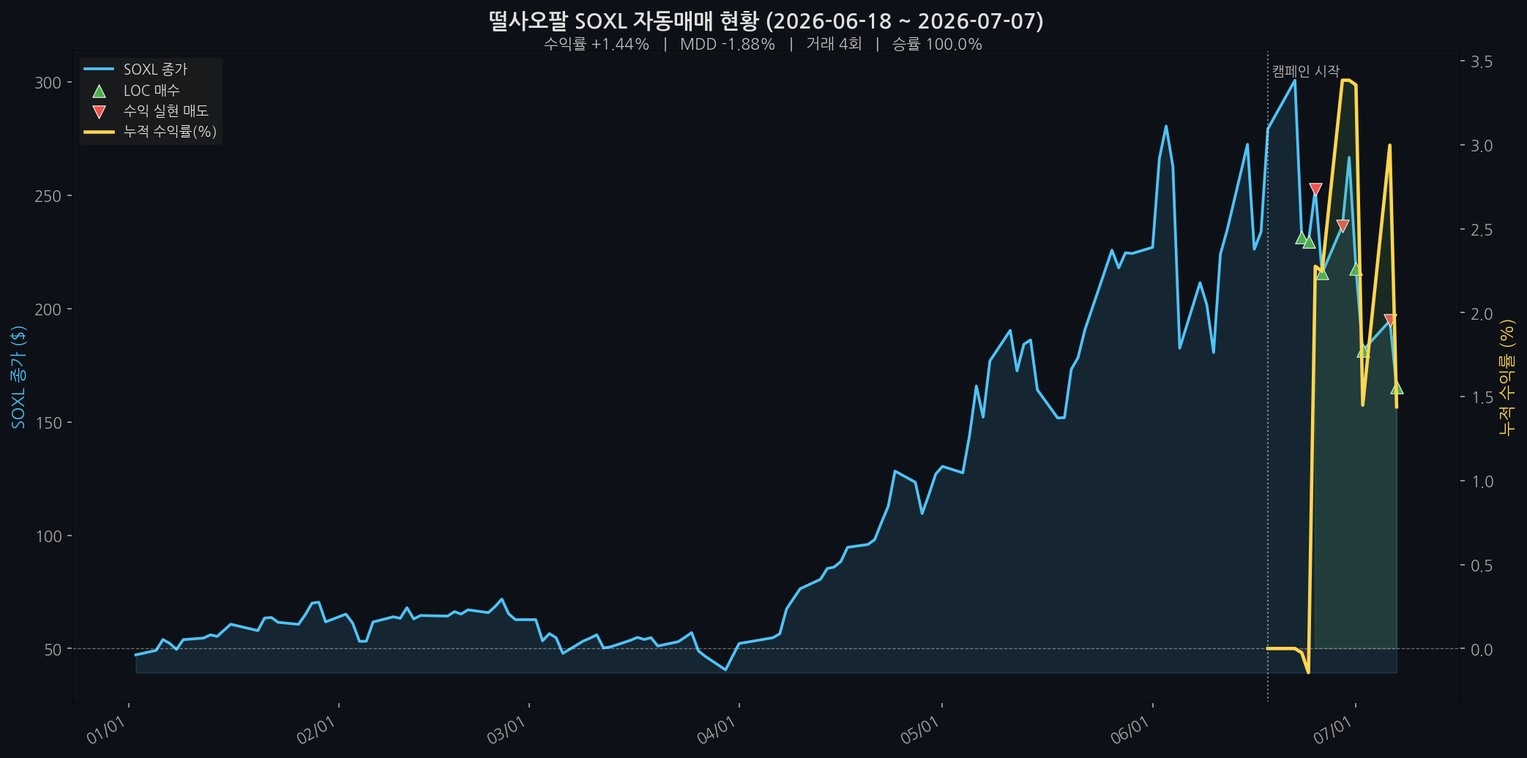
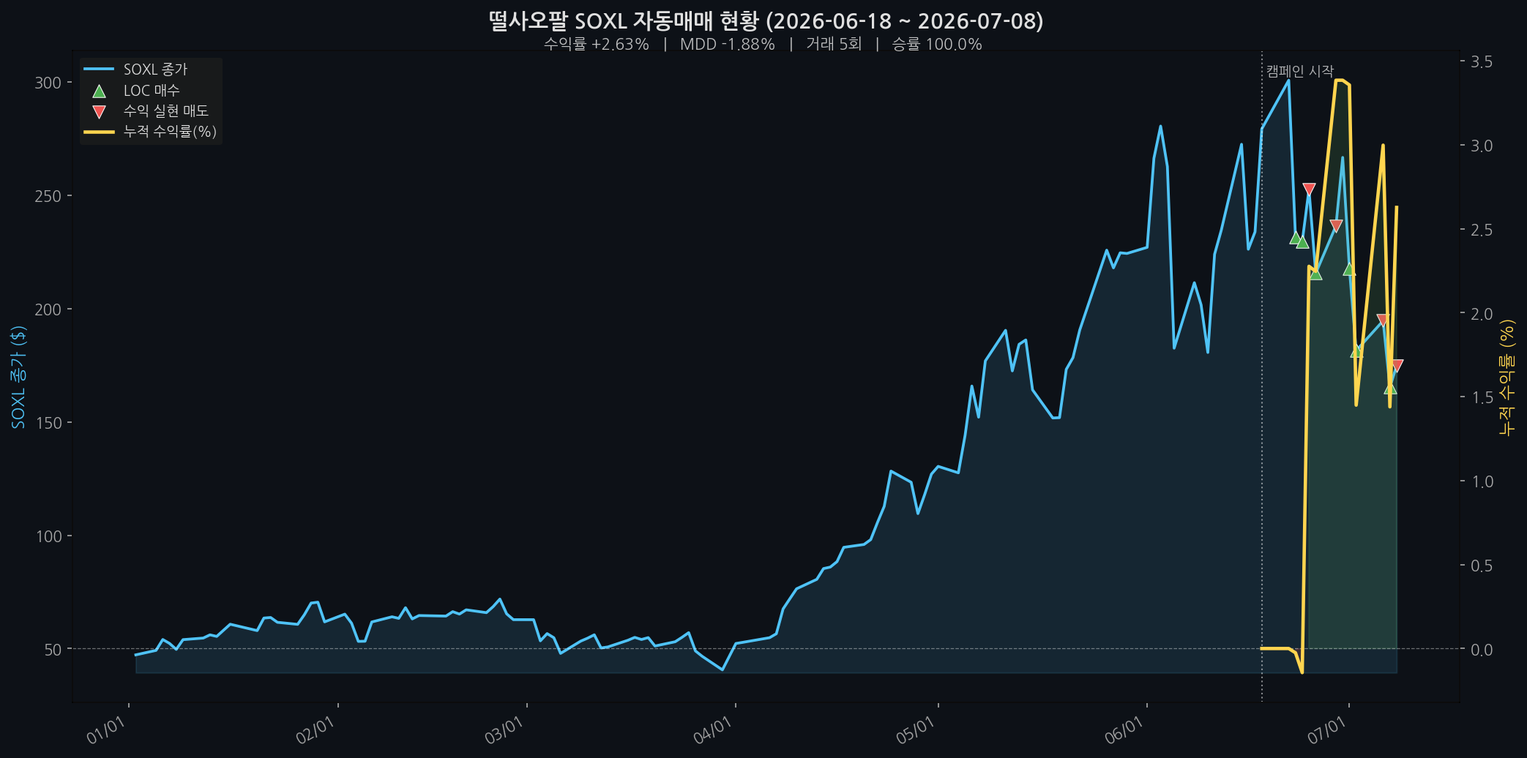
📊 Update charts 2026-07-09

diff --git a/docs/index.html b/docs/index.html
@@ -1,7 +1,7 @@
 <html>
 <head><meta charset="utf-8" /></head>
 <body>
-    <div style="height:920px; width:100%;">                        <script>window.PlotlyConfig = {MathJaxConfig: 'local'};</script>
-        <script charset="utf-8" src="https://cdn.plot.ly/plotly-3.6.0.min.js" integrity="sha256-QaOVwtVY0T02VaHrr6pnoHLCwayMJp4O5n4YyaE3rJk=" crossorigin="anonymous"></script>                <div id="a0e66dda-5eaf-4e52-b503-6f172e8f9b49" class="plotly-graph-div" style="height:100%; width:100%;"></div>            <script>                window.PLOTLYENV=window.PLOTLYENV || {};                                if (document.getElementById("a0e66dda-5eaf-4e52-b503-6f172e8f9b49")) {                    Plotly.newPlot(                        "a0e66dda-5eaf-4e52-b503-6f172e8f9b49",                        [{"hovertemplate":"%{x|%Y-%m-%d}\u003cbr\u003e\uc885\uac00 $%{y:.2f}\u003cextra\u003e\u003c\u002fextra\u003e","line":{"color":"#4FC3F7","width":1.6},"mode":"lines","name":"SOXL \uc885\uac00","x":["2026-06-18","2026-06-22","2026-06-23","2026-06-24","2026-06-25","2026-06-26","2026-06-29","2026-06-30","2026-07-01","2026-07-02","2026-07-06","2026-07-07"],"y":[279.29,300.77,231.42,229.57,252.61,215.6,236.52,266.71,217.55,181.47,194.65,165.28],"type":"scatter","xaxis":"x","yaxis":"y"},{"hovertemplate":"%{x|%Y-%m-%d}\u003cbr\u003e%{text}\u003cextra\u003e\u003c\u002fextra\u003e","marker":{"color":"#ff6b6b","line":{"color":"white","width":1.2},"size":11,"symbol":"triangle-up"},"mode":"markers","name":"\ub9e4\uc218 \uccb4\uacb0","text":["\ub9e4\uc218 LOC 11\uc8fc\u003cbr\u003e\uc9c0\uc815\uac00 $300.77 \u2192 \uccb4\uacb0\uac00 $231.42","\ub9e4\uc218 LOC 16\uc8fc\u003cbr\u003e\uc9c0\uc815\uac00 $231.42 \u2192 \uccb4\uacb0\uac00 $229.57","\ub9e4\uc218 LOC 14\uc8fc\u003cbr\u003e\uc9c0\uc815\uac00 $252.61 \u2192 \uccb4\uacb0\uac00 $215.60","\ub9e4\uc218 LOC 17\uc8fc\u003cbr\u003e\uc9c0\uc815\uac00 $217.55 \u2192 \uccb4\uacb0\uac00 $181.47","\ub9e4\uc218 LOC 19\uc8fc\u003cbr\u003e\uc9c0\uc815\uac00 $194.65 \u2192 \uccb4\uacb0\uac00 $165.28"],"x":["2026-06-23","2026-06-24","2026-06-26","2026-07-02","2026-07-07"],"y":[231.42,229.57,215.6,181.47,165.28],"type":"scatter","xaxis":"x","yaxis":"y"},{"hovertemplate":"%{x|%Y-%m-%d}\u003cbr\u003e%{text}\u003cextra\u003e\u003c\u002fextra\u003e","marker":{"color":"#5b9ce8","line":{"color":"white","width":1.2},"size":11,"symbol":"triangle-down"},"mode":"markers","name":"\ub9e4\ub3c4 \uccb4\uacb0","text":["\ub9e4\ub3c4 LOC 11\uc8fc\u003cbr\u003e\uc9c0\uc815\uac00 $232.58 \u2192 \uccb4\uacb0\uac00 $252.61","\ub9e4\ub3c4 LOC 14\uc8fc\u003cbr\u003e\uc9c0\uc815\uac00 $216.68 \u2192 \uccb4\uacb0\uac00 $236.52","\ub9e4\ub3c4 LOC 17\uc8fc\u003cbr\u003e\uc9c0\uc815\uac00 $182.38 \u2192 \uccb4\uacb0\uac00 $194.65"],"x":["2026-06-25","2026-06-29","2026-07-06"],"y":[252.61,236.52,194.65],"type":"scatter","xaxis":"x","yaxis":"y"},{"hovertemplate":"%{x|%Y-%m-%d}\u003cbr\u003e%{text}\u003cextra\u003e\u003c\u002fextra\u003e","marker":{"color":"#8b949e","line":{"color":"#8b949e","width":1.2},"size":11,"symbol":"circle-open"},"mode":"markers","name":"\ubbf8\uccb4\uacb0 \uc8fc\ubb38","text":["\ub9e4\uc218 LOC 17\uc8fc\u003cbr\u003e\uc9c0\uc815\uac00 $233.86 (\ubbf8\uccb4\uacb0)","\ub9e4\uc218 LOC 12\uc8fc\u003cbr\u003e\uc9c0\uc815\uac00 $279.29 (\ubbf8\uccb4\uacb0)","\ub9e4\ub3c4 LOC 11\uc8fc\u003cbr\u003e\uc9c0\uc815\uac00 $232.58 (\ubbf8\uccb4\uacb0)","\ub9e4\uc218 LOC 16\uc8fc\u003cbr\u003e\uc9c0\uc815\uac00 $231.42 (\ubbf8\uccb4\uacb0)","\ub9e4\uc218 LOC 17\uc8fc\u003cbr\u003e\uc9c0\uc815\uac00 $215.60 (\ubbf8\uccb4\uacb0)","\ub9e4\uc218 LOC 15\uc8fc\u003cbr\u003e\uc9c0\uc815\uac00 $236.52 (\ubbf8\uccb4\uacb0)","\ub9e4\ub3c4 LOC 13\uc8fc\u003cbr\u003e\uc9c0\uc815\uac00 $218.64 (\ubbf8\uccb4\uacb0)","\ub9e4\uc218 LOC 21\uc8fc\u003cbr\u003e\uc9c0\uc815\uac00 $181.47 (\ubbf8\uccb4\uacb0)","\ub9e4\ub3c4 LOC 13\uc8fc\u003cbr\u003e\uc9c0\uc815\uac00 $218.64 (\ubbf8\uccb4\uacb0)","\ub9e4\ub3c4 LOC 13\uc8fc\u003cbr\u003e\uc9c0\uc815\uac00 $218.64 (\ubbf8\uccb4\uacb0)"],"x":["2026-06-18","2026-06-22","2026-06-24","2026-06-25","2026-06-29","2026-06-30","2026-07-02","2026-07-06","2026-07-06","2026-07-07"],"y":[233.86,279.29,232.58,231.42,215.6,236.52,218.64,181.47,218.64,218.64],"type":"scatter","xaxis":"x","yaxis":"y"},{"hovertemplate":"%{x|%Y-%m-%d}\u003cbr\u003e%{text}\u003cextra\u003e\u003c\u002fextra\u003e","marker":{"color":"#3fb98f","line":{"color":"#3fb98f","width":1.2},"size":11,"symbol":"circle-open"},"mode":"markers","name":"\uccb4\uacb0 \ub300\uae30","text":["\ub9e4\uc218 LOC 24\uc8fc\u003cbr\u003e\uc9c0\uc815\uac00 $165.28 (\uc885\uac00 \ub300\uae30)","\ub9e4\ub3c4 LOC 13\uc8fc\u003cbr\u003e\uc9c0\uc815\uac00 $218.64 (\uc885\uac00 \ub300\uae30)","\ub9e4\ub3c4 LOC 19\uc8fc\u003cbr\u003e\uc9c0\uc815\uac00 $166.11 (\uc885\uac00 \ub300\uae30)"],"x":["2026-07-08","2026-07-08","2026-07-08"],"y":[165.28,218.64,166.11],"type":"scatter","xaxis":"x","yaxis":"y"},{"hovertemplate":"%{x|%Y-%m-%d}\u003cbr\u003e%{text}\u003cextra\u003e\ub9e4\uc218 \uccb4\uacb0\u003c\u002fextra\u003e","marker":{"color":"#ff6b6b","opacity":1.0},"name":"\ub9e4\uc218 \uccb4\uacb0","showlegend":false,"text":["11\uc8fc @ $300.77 = $3,308","16\uc8fc @ $231.42 = $3,703","14\uc8fc @ $252.61 = $3,537","17\uc8fc @ $217.55 = $3,698","19\uc8fc @ $194.65 = $3,698"],"x":["2026-06-23","2026-06-24","2026-06-26","2026-07-02","2026-07-07"],"y":[3308.47,3702.72,3536.54,3698.3500000000004,3698.35],"type":"bar","xaxis":"x2","yaxis":"y2"},{"hovertemplate":"%{x|%Y-%m-%d}\u003cbr\u003e%{text}\u003cextra\u003e\ub9e4\uc218 \ubbf8\uccb4\uacb0\u00b7\ub300\uae30\u003c\u002fextra\u003e","marker":{"color":"#ff6b6b","opacity":0.35},"name":"\ub9e4\uc218 \ubbf8\uccb4\uacb0\u00b7\ub300\uae30","showlegend":false,"text":["17\uc8fc @ $233.86 = $3,976","12\uc8fc @ $279.29 = $3,351","16\uc8fc @ $231.42 = $3,703","17\uc8fc @ $215.60 = $3,665","15\uc8fc @ $236.52 = $3,548","21\uc8fc @ $181.47 = $3,811","24\uc8fc @ $165.28 = $3,967"],"x":["2026-06-18","2026-06-22","2026-06-25","2026-06-29","2026-06-30","2026-07-06","2026-07-08"],"y":[3975.6200000000003,3351.4800000000005,3702.72,3665.2,3547.8,3810.87,3966.7200000000003],"type":"bar","xaxis":"x2","yaxis":"y2"},{"hovertemplate":"%{x|%Y-%m-%d}\u003cbr\u003e%{text}\u003cextra\u003e\ub9e4\ub3c4 \uccb4\uacb0\u003c\u002fextra\u003e","marker":{"color":"#5b9ce8","opacity":1.0},"name":"\ub9e4\ub3c4 \uccb4\uacb0","showlegend":false,"text":["11\uc8fc @ $232.58 = $2,558","14\uc8fc @ $216.68 = $3,034","17\uc8fc @ $182.38 = $3,100"],"x":["2026-06-25","2026-06-29","2026-07-06"],"y":[-2558.38,-3033.52,-3100.46],"type":"bar","xaxis":"x2","yaxis":"y2"},{"hovertemplate":"%{x|%Y-%m-%d}\u003cbr\u003e%{text}\u003cextra\u003e\ub9e4\ub3c4 \ubbf8\uccb4\uacb0\u00b7\ub300\uae30\u003c\u002fextra\u003e","marker":{"color":"#5b9ce8","opacity":0.35},"name":"\ub9e4\ub3c4 \ubbf8\uccb4\uacb0\u00b7\ub300\uae30","showlegend":false,"text":["11\uc8fc @ $232.58 = $2,558","13\uc8fc @ $218.64 = $2,842","13\uc8fc @ $218.64 = $2,842","13\uc8fc @ $218.64 = $2,842","13\uc8fc @ $218.64 = $2,842","19\uc8fc @ $166.11 = $3,156"],"x":["2026-06-24","2026-07-02","2026-07-06","2026-07-07","2026-07-08","2026-07-08"],"y":[-2558.38,-2842.3199999999997,-2842.3199999999997,-2842.3199999999997,-2842.3199999999997,-3156.09],"type":"bar","xaxis":"x2","yaxis":"y2"},{"customdata":[25000.0,25000.0,24993.63595,24964.103150000003,25569.131975,25561.585975,25846.187775,25846.187775,25839.1174,25362.364925,25749.492299999998,25359.831499999997],"hovertemplate":"%{x|%Y-%m-%d}\u003cbr\u003e\uc218\uc775\ub960 %{y:.2f}%\u003cbr\u003e\ud3c9\uac00\uae08\uc561 $%{customdata:,.0f}\u003cextra\u003e\u003c\u002fextra\u003e","line":{"color":"#FFD54F","width":2},"marker":{"size":5},"mode":"lines+markers","name":"\uc218\uc775\ub960(%)","showlegend":false,"x":["2026-06-18","2026-06-22","2026-06-23","2026-06-24","2026-06-25","2026-06-26","2026-06-29","2026-06-30","2026-07-01","2026-07-02","2026-07-06","2026-07-07"],"y":[0.0,0.0,-0.02545619999999582,-0.14358739999998926,2.2765278999999916,2.246343900000003,3.384751099999983,3.384751099999983,3.3564696000000005,1.449459700000011,2.9979691999999947,1.4393259999999852],"type":"scatter","xaxis":"x3","yaxis":"y3"}],                        {"template":{"data":{"barpolar":[{"marker":{"line":{"color":"rgb(17,17,17)","width":0.5},"pattern":{"fillmode":"overlay","size":10,"solidity":0.2}},"type":"barpolar"}],"bar":[{"error_x":{"color":"#f2f5fa"},"error_y":{"color":"#f2f5fa"},"marker":{"line":{"color":"rgb(17,17,17)","width":0.5},"pattern":{"fillmode":"overlay","size":10,"solidity":0.2}},"type":"bar"}],"carpet":[{"aaxis":{"endlinecolor":"#A2B1C6","gridcolor":"#506784","linecolor":"#506784","minorgridcolor":"#506784","startlinecolor":"#A2B1C6"},"baxis":{"endlinecolor":"#A2B1C6","gridcolor":"#506784","linecolor":"#506784","minorgridcolor":"#506784","startlinecolor":"#A2B1C6"},"type":"carpet"}],"choropleth":[{"colorbar":{"outlinewidth":0,"ticks":""},"type":"choropleth"}],"contourcarpet":[{"colorbar":{"outlinewidth":0,"ticks":""},"type":"contourcarpet"}],"contour":[{"colorbar":{"outlinewidth":0,"ticks":""},"colorscale":[[0.0,"#0d0887"],[0.1111111111111111,"#46039f"],[0.2222222222222222,"#7201a8"],[0.3333333333333333,"#9c179e"],[0.4444444444444444,"#bd3786"],[0.5555555555555556,"#d8576b"],[0.6666666666666666,"#ed7953"],[0.7777777777777778,"#fb9f3a"],[0.8888888888888888,"#fdca26"],[1.0,"#f0f921"]],"type":"contour"}],"heatmap":[{"colorbar":{"outlinewidth":0,"ticks":""},"colorscale":[[0.0,"#0d0887"],[0.1111111111111111,"#46039f"],[0.2222222222222222,"#7201a8"],[0.3333333333333333,"#9c179e"],[0.4444444444444444,"#bd3786"],[0.5555555555555556,"#d8576b"],[0.6666666666666666,"#ed7953"],[0.7777777777777778,"#fb9f3a"],[0.8888888888888888,"#fdca26"],[1.0,"#f0f921"]],"type":"heatmap"}],"histogram2dcontour":[{"colorbar":{"outlinewidth":0,"ticks":""},"colorscale":[[0.0,"#0d0887"],[0.1111111111111111,"#46039f"],[0.2222222222222222,"#7201a8"],[0.3333333333333333,"#9c179e"],[0.4444444444444444,"#bd3786"],[0.5555555555555556,"#d8576b"],[0.6666666666666666,"#ed7953"],[0.7777777777777778,"#fb9f3a"],[0.8888888888888888,"#fdca26"],[1.0,"#f0f921"]],"type":"histogram2dcontour"}],"histogram2d":[{"colorbar":{"outlinewidth":0,"ticks":""},"colorscale":[[0.0,"#0d0887"],[0.1111111111111111,"#46039f"],[0.2222222222222222,"#7201a8"],[0.3333333333333333,"#9c179e"],[0.4444444444444444,"#bd3786"],[0.5555555555555556,"#d8576b"],[0.6666666666666666,"#ed7953"],[0.7777777777777778,"#fb9f3a"],[0.8888888888888888,"#fdca26"],[1.0,"#f0f921"]],"type":"histogram2d"}],"histogram":[{"marker":{"pattern":{"fillmode":"overlay","size":10,"solidity":0.2}},"type":"histogram"}],"mesh3d":[{"colorbar":{"outlinewidth":0,"ticks":""},"type":"mesh3d"}],"parcoords":[{"line":{"colorbar":{"outlinewidth":0,"ticks":""}},"type":"parcoords"}],"pie":[{"automargin":true,"type":"pie"}],"scatter3d":[{"line":{"colorbar":{"outlinewidth":0,"ticks":""}},"marker":{"colorbar":{"outlinewidth":0,"ticks":""}},"type":"scatter3d"}],"scattercarpet":[{"marker":{"colorbar":{"outlinewidth":0,"ticks":""}},"type":"scattercarpet"}],"scattergeo":[{"marker":{"colorbar":{"outlinewidth":0,"ticks":""}},"type":"scattergeo"}],"scattergl":[{"marker":{"line":{"color":"#283442"}},"type":"scattergl"}],"scattermapbox":[{"marker":{"colorbar":{"outlinewidth":0,"ticks":""}},"type":"scattermapbox"}],"scattermap":[{"marker":{"colorbar":{"outlinewidth":0,"ticks":""}},"type":"scattermap"}],"scatterpolargl":[{"marker":{"colorbar":{"outlinewidth":0,"ticks":""}},"type":"scatterpolargl"}],"scatterpolar":[{"marker":{"colorbar":{"outlinewidth":0,"ticks":""}},"type":"scatterpolar"}],"scatter":[{"marker":{"line":{"color":"#283442"}},"type":"scatter"}],"scatterternary":[{"marker":{"colorbar":{"outlinewidth":0,"ticks":""}},"type":"scatterternary"}],"surface":[{"colorbar":{"outlinewidth":0,"ticks":""},"colorscale":[[0.0,"#0d0887"],[0.1111111111111111,"#46039f"],[0.2222222222222222,"#7201a8"],[0.3333333333333333,"#9c179e"],[0.4444444444444444,"#bd3786"],[0.5555555555555556,"#d8576b"],[0.6666666666666666,"#ed7953"],[0.7777777777777778,"#fb9f3a"],[0.8888888888888888,"#fdca26"],[1.0,"#f0f921"]],"type":"surface"}],"table":[{"cells":{"fill":{"color":"#506784"},"line":{"color":"rgb(17,17,17)"}},"header":{"fill":{"color":"#2a3f5f"},"line":{"color":"rgb(17,17,17)"}},"type":"table"}]},"layout":{"annotationdefaults":{"arrowcolor":"#f2f5fa","arrowhead":0,"arrowwidth":1},"autotypenumbers":"strict","coloraxis":{"colorbar":{"outlinewidth":0,"ticks":""}},"colorscale":{"diverging":[[0,"#8e0152"],[0.1,"#c51b7d"],[0.2,"#de77ae"],[0.3,"#f1b6da"],[0.4,"#fde0ef"],[0.5,"#f7f7f7"],[0.6,"#e6f5d0"],[0.7,"#b8e186"],[0.8,"#7fbc41"],[0.9,"#4d9221"],[1,"#276419"]],"sequential":[[0.0,"#0d0887"],[0.1111111111111111,"#46039f"],[0.2222222222222222,"#7201a8"],[0.3333333333333333,"#9c179e"],[0.4444444444444444,"#bd3786"],[0.5555555555555556,"#d8576b"],[0.6666666666666666,"#ed7953"],[0.7777777777777778,"#fb9f3a"],[0.8888888888888888,"#fdca26"],[1.0,"#f0f921"]],"sequentialminus":[[0.0,"#0d0887"],[0.1111111111111111,"#46039f"],[0.2222222222222222,"#7201a8"],[0.3333333333333333,"#9c179e"],[0.4444444444444444,"#bd3786"],[0.5555555555555556,"#d8576b"],[0.6666666666666666,"#ed7953"],[0.7777777777777778,"#fb9f3a"],[0.8888888888888888,"#fdca26"],[1.0,"#f0f921"]]},"colorway":["#636efa","#EF553B","#00cc96","#ab63fa","#FFA15A","#19d3f3","#FF6692","#B6E880","#FF97FF","#FECB52"],"font":{"color":"#f2f5fa"},"geo":{"bgcolor":"rgb(17,17,17)","lakecolor":"rgb(17,17,17)","landcolor":"rgb(17,17,17)","showlakes":true,"showland":true,"subunitcolor":"#506784"},"hoverlabel":{"align":"left"},"hovermode":"closest","mapbox":{"style":"dark"},"paper_bgcolor":"rgb(17,17,17)","plot_bgcolor":"rgb(17,17,17)","polar":{"angularaxis":{"gridcolor":"#506784","linecolor":"#506784","ticks":""},"bgcolor":"rgb(17,17,17)","radialaxis":{"gridcolor":"#506784","linecolor":"#506784","ticks":""}},"scene":{"xaxis":{"backgroundcolor":"rgb(17,17,17)","gridcolor":"#506784","gridwidth":2,"linecolor":"#506784","showbackground":true,"ticks":"","zerolinecolor":"#C8D4E3"},"yaxis":{"backgroundcolor":"rgb(17,17,17)","gridcolor":"#506784","gridwidth":2,"linecolor":"#506784","showbackground":true,"ticks":"","zerolinecolor":"#C8D4E3"},"zaxis":{"backgroundcolor":"rgb(17,17,17)","gridcolor":"#506784","gridwidth":2,"linecolor":"#506784","showbackground":true,"ticks":"","zerolinecolor":"#C8D4E3"}},"shapedefaults":{"line":{"color":"#f2f5fa"}},"sliderdefaults":{"bgcolor":"#C8D4E3","bordercolor":"rgb(17,17,17)","borderwidth":1,"tickwidth":0},"ternary":{"aaxis":{"gridcolor":"#506784","linecolor":"#506784","ticks":""},"baxis":{"gridcolor":"#506784","linecolor":"#506784","ticks":""},"bgcolor":"rgb(17,17,17)","caxis":{"gridcolor":"#506784","linecolor":"#506784","ticks":""}},"title":{"x":0.05},"updatemenudefaults":{"bgcolor":"#506784","borderwidth":0},"xaxis":{"automargin":true,"gridcolor":"#283442","linecolor":"#506784","ticks":"","title":{"standoff":15},"zerolinecolor":"#283442","zerolinewidth":2},"yaxis":{"automargin":true,"gridcolor":"#283442","linecolor":"#506784","ticks":"","title":{"standoff":15},"zerolinecolor":"#283442","zerolinewidth":2}}},"xaxis":{"anchor":"y","domain":[0.0,1.0],"matches":"x3","showticklabels":false,"rangeselector":{"font":{"color":"#E0E0E0"},"buttons":[{"count":1,"label":"1\uac1c\uc6d4","step":"month","stepmode":"backward"},{"count":3,"label":"3\uac1c\uc6d4","step":"month","stepmode":"backward"},{"count":6,"label":"6\uac1c\uc6d4","step":"month","stepmode":"backward"},{"label":"\uc804\uccb4","step":"all"}],"bgcolor":"#21262d","activecolor":"#388bfd"},"gridcolor":"#30363d","rangebreaks":[{"bounds":["sat","mon"]}]},"yaxis":{"anchor":"x","domain":[0.532,1.0],"title":{"text":"\uc885\uac00 ($)"},"gridcolor":"#30363d"},"xaxis2":{"anchor":"y2","domain":[0.0,1.0],"matches":"x3","showticklabels":false,"gridcolor":"#30363d","rangebreaks":[{"bounds":["sat","mon"]}]},"yaxis2":{"anchor":"x2","domain":[0.28400000000000003,0.48200000000000004],"title":{"text":"\uc8fc\ubb38 \uae08\uc561 ($)"},"gridcolor":"#30363d"},"xaxis3":{"anchor":"y3","domain":[0.0,1.0],"gridcolor":"#30363d","rangebreaks":[{"bounds":["sat","mon"]}]},"yaxis3":{"anchor":"x3","domain":[0.0,0.234],"title":{"text":"\uc218\uc775\ub960 (%)"},"gridcolor":"#30363d"},"annotations":[{"font":{"size":16},"showarrow":false,"text":"SOXL \uc885\uac00\uc640 \uc8fc\ubb38\u00b7\uccb4\uacb0","x":0.5,"xanchor":"center","xref":"paper","y":1.0,"yanchor":"bottom","yref":"paper"},{"font":{"size":16},"showarrow":false,"text":"\uc77c\ubcc4 \uc8fc\ubb38 \uae08\uc561 (\uc9c4\ud55c\uc0c9=\uccb4\uacb0)","x":0.5,"xanchor":"center","xref":"paper","y":0.48200000000000004,"yanchor":"bottom","yref":"paper"},{"font":{"size":16},"showarrow":false,"text":"\uc218\uc775\ub960 (\uc6d0\uae08 \ub300\ube44)","x":0.5,"xanchor":"center","xref":"paper","y":0.234,"yanchor":"bottom","yref":"paper"}],"shapes":[{"line":{"color":"#30363d","width":1},"type":"line","x0":0,"x1":1,"xref":"x3 domain","y0":0,"y1":0,"yref":"y3"}],"title":{"text":"\ub5a8\uc0ac\uc624\ud314 SOXL \uc2e4\uac70\ub798 \ud604\ud669 (2026-06-18 ~ 2026-07-07)\u003cbr\u003e\u003cspan style=\"font-size:13px;color:#AAAAAA\"\u003e\ud3c9\uac00\uae08\uc561 $25,360 (+1.44%)  |  \ubcf4\uc720 32\uc8fc \u00b7 \uc608\uc218\uae08 $20,071  |  MDD -1.9%  |  \uccb4\uacb0 \ub9e4\uc218 5\ud68c \u00b7 \ub9e4\ub3c4 3\ud68c  \u00b7  \uc6d0\uae08 $25,000 \uae30\uc900\u003c\u002fspan\u003e","x":0.5,"xanchor":"center","y":0.985,"yanchor":"top"},"legend":{"orientation":"h","y":1.065,"x":0.5,"xanchor":"center","bgcolor":"rgba(0,0,0,0)"},"margin":{"t":185,"b":40,"l":60,"r":30},"paper_bgcolor":"#0d1117","plot_bgcolor":"#0d1117","barmode":"relative","hovermode":"closest","height":920},                        {"displayModeBar": true, "scrollZoom": true, "responsive": true}                    )                };            </script>        </div>
+    <div>                        <script type="text/javascript">window.PlotlyConfig = {MathJaxConfig: 'local'};</script>
+        <script charset="utf-8" src="https://cdn.plot.ly/plotly-2.35.2.min.js"></script>                <div id="ea80bd20-ae25-4ec1-badb-2f17e418bb8d" class="plotly-graph-div" style="height:920px; width:100%;"></div>            <script type="text/javascript">                                    window.PLOTLYENV=window.PLOTLYENV || {};                                    if (document.getElementById("ea80bd20-ae25-4ec1-badb-2f17e418bb8d")) {                    Plotly.newPlot(                        "ea80bd20-ae25-4ec1-badb-2f17e418bb8d",                        [{"hovertemplate":"%{x|%Y-%m-%d}\u003cbr\u003e\uc885\uac00 $%{y:.2f}\u003cextra\u003e\u003c\u002fextra\u003e","line":{"color":"#4FC3F7","width":1.6},"mode":"lines","name":"SOXL \uc885\uac00","x":["2026-06-18","2026-06-22","2026-06-23","2026-06-24","2026-06-25","2026-06-26","2026-06-29","2026-06-30","2026-07-01","2026-07-02","2026-07-06","2026-07-07","2026-07-08"],"y":[279.29,300.77,231.42,229.57,252.61,215.6,236.52,266.71,217.55,181.47,194.65,165.28,174.82],"type":"scatter","xaxis":"x","yaxis":"y"},{"hovertemplate":"%{x|%Y-%m-%d}\u003cbr\u003e%{text}\u003cextra\u003e\u003c\u002fextra\u003e","marker":{"color":"#ff6b6b","line":{"color":"white","width":1.2},"size":11,"symbol":"triangle-up"},"mode":"markers","name":"\ub9e4\uc218 \uccb4\uacb0","text":["\ub9e4\uc218 LOC 11\uc8fc\u003cbr\u003e\uc9c0\uc815\uac00 $300.77 \u2192 \uccb4\uacb0\uac00 $231.42","\ub9e4\uc218 LOC 16\uc8fc\u003cbr\u003e\uc9c0\uc815\uac00 $231.42 \u2192 \uccb4\uacb0\uac00 $229.57","\ub9e4\uc218 LOC 14\uc8fc\u003cbr\u003e\uc9c0\uc815\uac00 $252.61 \u2192 \uccb4\uacb0\uac00 $215.60","\ub9e4\uc218 LOC 17\uc8fc\u003cbr\u003e\uc9c0\uc815\uac00 $217.55 \u2192 \uccb4\uacb0\uac00 $181.47","\ub9e4\uc218 LOC 19\uc8fc\u003cbr\u003e\uc9c0\uc815\uac00 $194.65 \u2192 \uccb4\uacb0\uac00 $165.28"],"x":["2026-06-23","2026-06-24","2026-06-26","2026-07-02","2026-07-07"],"y":[231.42,229.57,215.6,181.47,165.28],"type":"scatter","xaxis":"x","yaxis":"y"},{"hovertemplate":"%{x|%Y-%m-%d}\u003cbr\u003e%{text}\u003cextra\u003e\u003c\u002fextra\u003e","marker":{"color":"#5b9ce8","line":{"color":"white","width":1.2},"size":11,"symbol":"triangle-down"},"mode":"markers","name":"\ub9e4\ub3c4 \uccb4\uacb0","text":["\ub9e4\ub3c4 LOC 11\uc8fc\u003cbr\u003e\uc9c0\uc815\uac00 $232.58 \u2192 \uccb4\uacb0\uac00 $252.61","\ub9e4\ub3c4 LOC 14\uc8fc\u003cbr\u003e\uc9c0\uc815\uac00 $216.68 \u2192 \uccb4\uacb0\uac00 $236.52","\ub9e4\ub3c4 LOC 17\uc8fc\u003cbr\u003e\uc9c0\uc815\uac00 $182.38 \u2192 \uccb4\uacb0\uac00 $194.65","\ub9e4\ub3c4 LOC 19\uc8fc\u003cbr\u003e\uc9c0\uc815\uac00 $166.11 \u2192 \uccb4\uacb0\uac00 $174.82"],"x":["2026-06-25","2026-06-29","2026-07-06","2026-07-08"],"y":[252.61,236.52,194.65,174.82],"type":"scatter","xaxis":"x","yaxis":"y"},{"hovertemplate":"%{x|%Y-%m-%d}\u003cbr\u003e%{text}\u003cextra\u003e\u003c\u002fextra\u003e","marker":{"color":"#8b949e","line":{"color":"#8b949e","width":1.2},"size":11,"symbol":"circle-open"},"mode":"markers","name":"\ubbf8\uccb4\uacb0 \uc8fc\ubb38","text":["\ub9e4\uc218 LOC 17\uc8fc\u003cbr\u003e\uc9c0\uc815\uac00 $233.86 (\ubbf8\uccb4\uacb0)","\ub9e4\uc218 LOC 12\uc8fc\u003cbr\u003e\uc9c0\uc815\uac00 $279.29 (\ubbf8\uccb4\uacb0)","\ub9e4\ub3c4 LOC 11\uc8fc\u003cbr\u003e\uc9c0\uc815\uac00 $232.58 (\ubbf8\uccb4\uacb0)","\ub9e4\uc218 LOC 16\uc8fc\u003cbr\u003e\uc9c0\uc815\uac00 $231.42 (\ubbf8\uccb4\uacb0)","\ub9e4\uc218 LOC 17\uc8fc\u003cbr\u003e\uc9c0\uc815\uac00 $215.60 (\ubbf8\uccb4\uacb0)","\ub9e4\uc218 LOC 15\uc8fc\u003cbr\u003e\uc9c0\uc815\uac00 $236.52 (\ubbf8\uccb4\uacb0)","\ub9e4\ub3c4 LOC 13\uc8fc\u003cbr\u003e\uc9c0\uc815\uac00 $218.64 (\ubbf8\uccb4\uacb0)","\ub9e4\uc218 LOC 21\uc8fc\u003cbr\u003e\uc9c0\uc815\uac00 $181.47 (\ubbf8\uccb4\uacb0)","\ub9e4\ub3c4 LOC 13\uc8fc\u003cbr\u003e\uc9c0\uc815\uac00 $218.64 (\ubbf8\uccb4\uacb0)","\ub9e4\ub3c4 LOC 13\uc8fc\u003cbr\u003e\uc9c0\uc815\uac00 $218.64 (\ubbf8\uccb4\uacb0)","\ub9e4\uc218 LOC 24\uc8fc\u003cbr\u003e\uc9c0\uc815\uac00 $165.28 (\ubbf8\uccb4\uacb0)","\ub9e4\ub3c4 LOC 13\uc8fc\u003cbr\u003e\uc9c0\uc815\uac00 $218.64 (\ubbf8\uccb4\uacb0)"],"x":["2026-06-18","2026-06-22","2026-06-24","2026-06-25","2026-06-29","2026-06-30","2026-07-02","2026-07-06","2026-07-06","2026-07-07","2026-07-08","2026-07-08"],"y":[233.86,279.29,232.58,231.42,215.6,236.52,218.64,181.47,218.64,218.64,165.28,218.64],"type":"scatter","xaxis":"x","yaxis":"y"},{"hovertemplate":"%{x|%Y-%m-%d}\u003cbr\u003e%{text}\u003cextra\u003e\ub9e4\uc218 \uccb4\uacb0\u003c\u002fextra\u003e","marker":{"color":"#ff6b6b","opacity":1.0},"name":"\ub9e4\uc218 \uccb4\uacb0","showlegend":false,"text":["11\uc8fc @ $300.77 = $3,308","16\uc8fc @ $231.42 = $3,703","14\uc8fc @ $252.61 = $3,537","17\uc8fc @ $217.55 = $3,698","19\uc8fc @ $194.65 = $3,698"],"x":["2026-06-23","2026-06-24","2026-06-26","2026-07-02","2026-07-07"],"y":[3308.47,3702.72,3536.54,3698.3500000000004,3698.35],"type":"bar","xaxis":"x2","yaxis":"y2"},{"hovertemplate":"%{x|%Y-%m-%d}\u003cbr\u003e%{text}\u003cextra\u003e\ub9e4\uc218 \ubbf8\uccb4\uacb0\u00b7\ub300\uae30\u003c\u002fextra\u003e","marker":{"color":"#ff6b6b","opacity":0.35},"name":"\ub9e4\uc218 \ubbf8\uccb4\uacb0\u00b7\ub300\uae30","showlegend":false,"text":["17\uc8fc @ $233.86 = $3,976","12\uc8fc @ $279.29 = $3,351","16\uc8fc @ $231.42 = $3,703","17\uc8fc @ $215.60 = $3,665","15\uc8fc @ $236.52 = $3,548","21\uc8fc @ $181.47 = $3,811","24\uc8fc @ $165.28 = $3,967"],"x":["2026-06-18","2026-06-22","2026-06-25","2026-06-29","2026-06-30","2026-07-06","2026-07-08"],"y":[3975.6200000000003,3351.4800000000005,3702.72,3665.2,3547.8,3810.87,3966.7200000000003],"type":"bar","xaxis":"x2","yaxis":"y2"},{"hovertemplate":"%{x|%Y-%m-%d}\u003cbr\u003e%{text}\u003cextra\u003e\ub9e4\ub3c4 \uccb4\uacb0\u003c\u002fextra\u003e","marker":{"color":"#5b9ce8","opacity":1.0},"name":"\ub9e4\ub3c4 \uccb4\uacb0","showlegend":false,"text":["11\uc8fc @ $232.58 = $2,558","14\uc8fc @ $216.68 = $3,034","17\uc8fc @ $182.38 = $3,100","19\uc8fc @ $166.11 = $3,156"],"x":["2026-06-25","2026-06-29","2026-07-06","2026-07-08"],"y":[-2558.38,-3033.52,-3100.46,-3156.09],"type":"bar","xaxis":"x2","yaxis":"y2"},{"hovertemplate":"%{x|%Y-%m-%d}\u003cbr\u003e%{text}\u003cextra\u003e\ub9e4\ub3c4 \ubbf8\uccb4\uacb0\u00b7\ub300\uae30\u003c\u002fextra\u003e","marker":{"color":"#5b9ce8","opacity":0.35},"name":"\ub9e4\ub3c4 \ubbf8\uccb4\uacb0\u00b7\ub300\uae30","showlegend":false,"text":["11\uc8fc @ $232.58 = $2,558","13\uc8fc @ $218.64 = $2,842","13\uc8fc @ $218.64 = $2,842","13\uc8fc @ $218.64 = $2,842","13\uc8fc @ $218.64 = $2,842"],"x":["2026-06-24","2026-07-02","2026-07-06","2026-07-07","2026-07-08"],"y":[-2558.38,-2842.3199999999997,-2842.3199999999997,-2842.3199999999997,-2842.3199999999997],"type":"bar","xaxis":"x2","yaxis":"y2"},{"customdata":[25000.0,25000.0,24993.63595,24964.103150000003,25569.131975,25561.585975,25846.187775,25846.187775,25839.1174,25362.364925,25749.492299999998,25359.831499999997,25656.807549999994],"hovertemplate":"%{x|%Y-%m-%d}\u003cbr\u003e\uc218\uc775\ub960 %{y:.2f}%\u003cbr\u003e\ud3c9\uac00\uae08\uc561 $%{customdata:,.0f}\u003cextra\u003e\u003c\u002fextra\u003e","line":{"color":"#FFD54F","width":2},"marker":{"size":5},"mode":"lines+markers","name":"\uc218\uc775\ub960(%)","showlegend":false,"x":["2026-06-18","2026-06-22","2026-06-23","2026-06-24","2026-06-25","2026-06-26","2026-06-29","2026-06-30","2026-07-01","2026-07-02","2026-07-06","2026-07-07","2026-07-08"],"y":[0.0,0.0,-0.02545619999999582,-0.14358739999998926,2.2765278999999916,2.246343900000003,3.384751099999983,3.384751099999983,3.3564696000000005,1.449459700000011,2.9979691999999947,1.4393259999999852,2.6272301999999748],"type":"scatter","xaxis":"x3","yaxis":"y3"}],                        {"template":{"data":{"barpolar":[{"marker":{"line":{"color":"rgb(17,17,17)","width":0.5},"pattern":{"fillmode":"overlay","size":10,"solidity":0.2}},"type":"barpolar"}],"bar":[{"error_x":{"color":"#f2f5fa"},"error_y":{"color":"#f2f5fa"},"marker":{"line":{"color":"rgb(17,17,17)","width":0.5},"pattern":{"fillmode":"overlay","size":10,"solidity":0.2}},"type":"bar"}],"carpet":[{"aaxis":{"endlinecolor":"#A2B1C6","gridcolor":"#506784","linecolor":"#506784","minorgridcolor":"#506784","startlinecolor":"#A2B1C6"},"baxis":{"endlinecolor":"#A2B1C6","gridcolor":"#506784","linecolor":"#506784","minorgridcolor":"#506784","startlinecolor":"#A2B1C6"},"type":"carpet"}],"choropleth":[{"colorbar":{"outlinewidth":0,"ticks":""},"type":"choropleth"}],"contourcarpet":[{"colorbar":{"outlinewidth":0,"ticks":""},"type":"contourcarpet"}],"contour":[{"colorbar":{"outlinewidth":0,"ticks":""},"colorscale":[[0.0,"#0d0887"],[0.1111111111111111,"#46039f"],[0.2222222222222222,"#7201a8"],[0.3333333333333333,"#9c179e"],[0.4444444444444444,"#bd3786"],[0.5555555555555556,"#d8576b"],[0.6666666666666666,"#ed7953"],[0.7777777777777778,"#fb9f3a"],[0.8888888888888888,"#fdca26"],[1.0,"#f0f921"]],"type":"contour"}],"heatmapgl":[{"colorbar":{"outlinewidth":0,"ticks":""},"colorscale":[[0.0,"#0d0887"],[0.1111111111111111,"#46039f"],[0.2222222222222222,"#7201a8"],[0.3333333333333333,"#9c179e"],[0.4444444444444444,"#bd3786"],[0.5555555555555556,"#d8576b"],[0.6666666666666666,"#ed7953"],[0.7777777777777778,"#fb9f3a"],[0.8888888888888888,"#fdca26"],[1.0,"#f0f921"]],"type":"heatmapgl"}],"heatmap":[{"colorbar":{"outlinewidth":0,"ticks":""},"colorscale":[[0.0,"#0d0887"],[0.1111111111111111,"#46039f"],[0.2222222222222222,"#7201a8"],[0.3333333333333333,"#9c179e"],[0.4444444444444444,"#bd3786"],[0.5555555555555556,"#d8576b"],[0.6666666666666666,"#ed7953"],[0.7777777777777778,"#fb9f3a"],[0.8888888888888888,"#fdca26"],[1.0,"#f0f921"]],"type":"heatmap"}],"histogram2dcontour":[{"colorbar":{"outlinewidth":0,"ticks":""},"colorscale":[[0.0,"#0d0887"],[0.1111111111111111,"#46039f"],[0.2222222222222222,"#7201a8"],[0.3333333333333333,"#9c179e"],[0.4444444444444444,"#bd3786"],[0.5555555555555556,"#d8576b"],[0.6666666666666666,"#ed7953"],[0.7777777777777778,"#fb9f3a"],[0.8888888888888888,"#fdca26"],[1.0,"#f0f921"]],"type":"histogram2dcontour"}],"histogram2d":[{"colorbar":{"outlinewidth":0,"ticks":""},"colorscale":[[0.0,"#0d0887"],[0.1111111111111111,"#46039f"],[0.2222222222222222,"#7201a8"],[0.3333333333333333,"#9c179e"],[0.4444444444444444,"#bd3786"],[0.5555555555555556,"#d8576b"],[0.6666666666666666,"#ed7953"],[0.7777777777777778,"#fb9f3a"],[0.8888888888888888,"#fdca26"],[1.0,"#f0f921"]],"type":"histogram2d"}],"histogram":[{"marker":{"pattern":{"fillmode":"overlay","size":10,"solidity":0.2}},"type":"histogram"}],"mesh3d":[{"colorbar":{"outlinewidth":0,"ticks":""},"type":"mesh3d"}],"parcoords":[{"line":{"colorbar":{"outlinewidth":0,"ticks":""}},"type":"parcoords"}],"pie":[{"automargin":true,"type":"pie"}],"scatter3d":[{"line":{"colorbar":{"outlinewidth":0,"ticks":""}},"marker":{"colorbar":{"outlinewidth":0,"ticks":""}},"type":"scatter3d"}],"scattercarpet":[{"marker":{"colorbar":{"outlinewidth":0,"ticks":""}},"type":"scattercarpet"}],"scattergeo":[{"marker":{"colorbar":{"outlinewidth":0,"ticks":""}},"type":"scattergeo"}],"scattergl":[{"marker":{"line":{"color":"#283442"}},"type":"scattergl"}],"scattermapbox":[{"marker":{"colorbar":{"outlinewidth":0,"ticks":""}},"type":"scattermapbox"}],"scatterpolargl":[{"marker":{"colorbar":{"outlinewidth":0,"ticks":""}},"type":"scatterpolargl"}],"scatterpolar":[{"marker":{"colorbar":{"outlinewidth":0,"ticks":""}},"type":"scatterpolar"}],"scatter":[{"marker":{"line":{"color":"#283442"}},"type":"scatter"}],"scatterternary":[{"marker":{"colorbar":{"outlinewidth":0,"ticks":""}},"type":"scatterternary"}],"surface":[{"colorbar":{"outlinewidth":0,"ticks":""},"colorscale":[[0.0,"#0d0887"],[0.1111111111111111,"#46039f"],[0.2222222222222222,"#7201a8"],[0.3333333333333333,"#9c179e"],[0.4444444444444444,"#bd3786"],[0.5555555555555556,"#d8576b"],[0.6666666666666666,"#ed7953"],[0.7777777777777778,"#fb9f3a"],[0.8888888888888888,"#fdca26"],[1.0,"#f0f921"]],"type":"surface"}],"table":[{"cells":{"fill":{"color":"#506784"},"line":{"color":"rgb(17,17,17)"}},"header":{"fill":{"color":"#2a3f5f"},"line":{"color":"rgb(17,17,17)"}},"type":"table"}]},"layout":{"annotationdefaults":{"arrowcolor":"#f2f5fa","arrowhead":0,"arrowwidth":1},"autotypenumbers":"strict","coloraxis":{"colorbar":{"outlinewidth":0,"ticks":""}},"colorscale":{"diverging":[[0,"#8e0152"],[0.1,"#c51b7d"],[0.2,"#de77ae"],[0.3,"#f1b6da"],[0.4,"#fde0ef"],[0.5,"#f7f7f7"],[0.6,"#e6f5d0"],[0.7,"#b8e186"],[0.8,"#7fbc41"],[0.9,"#4d9221"],[1,"#276419"]],"sequential":[[0.0,"#0d0887"],[0.1111111111111111,"#46039f"],[0.2222222222222222,"#7201a8"],[0.3333333333333333,"#9c179e"],[0.4444444444444444,"#bd3786"],[0.5555555555555556,"#d8576b"],[0.6666666666666666,"#ed7953"],[0.7777777777777778,"#fb9f3a"],[0.8888888888888888,"#fdca26"],[1.0,"#f0f921"]],"sequentialminus":[[0.0,"#0d0887"],[0.1111111111111111,"#46039f"],[0.2222222222222222,"#7201a8"],[0.3333333333333333,"#9c179e"],[0.4444444444444444,"#bd3786"],[0.5555555555555556,"#d8576b"],[0.6666666666666666,"#ed7953"],[0.7777777777777778,"#fb9f3a"],[0.8888888888888888,"#fdca26"],[1.0,"#f0f921"]]},"colorway":["#636efa","#EF553B","#00cc96","#ab63fa","#FFA15A","#19d3f3","#FF6692","#B6E880","#FF97FF","#FECB52"],"font":{"color":"#f2f5fa"},"geo":{"bgcolor":"rgb(17,17,17)","lakecolor":"rgb(17,17,17)","landcolor":"rgb(17,17,17)","showlakes":true,"showland":true,"subunitcolor":"#506784"},"hoverlabel":{"align":"left"},"hovermode":"closest","mapbox":{"style":"dark"},"paper_bgcolor":"rgb(17,17,17)","plot_bgcolor":"rgb(17,17,17)","polar":{"angularaxis":{"gridcolor":"#506784","linecolor":"#506784","ticks":""},"bgcolor":"rgb(17,17,17)","radialaxis":{"gridcolor":"#506784","linecolor":"#506784","ticks":""}},"scene":{"xaxis":{"backgroundcolor":"rgb(17,17,17)","gridcolor":"#506784","gridwidth":2,"linecolor":"#506784","showbackground":true,"ticks":"","zerolinecolor":"#C8D4E3"},"yaxis":{"backgroundcolor":"rgb(17,17,17)","gridcolor":"#506784","gridwidth":2,"linecolor":"#506784","showbackground":true,"ticks":"","zerolinecolor":"#C8D4E3"},"zaxis":{"backgroundcolor":"rgb(17,17,17)","gridcolor":"#506784","gridwidth":2,"linecolor":"#506784","showbackground":true,"ticks":"","zerolinecolor":"#C8D4E3"}},"shapedefaults":{"line":{"color":"#f2f5fa"}},"sliderdefaults":{"bgcolor":"#C8D4E3","bordercolor":"rgb(17,17,17)","borderwidth":1,"tickwidth":0},"ternary":{"aaxis":{"gridcolor":"#506784","linecolor":"#506784","ticks":""},"baxis":{"gridcolor":"#506784","linecolor":"#506784","ticks":""},"bgcolor":"rgb(17,17,17)","caxis":{"gridcolor":"#506784","linecolor":"#506784","ticks":""}},"title":{"x":0.05},"updatemenudefaults":{"bgcolor":"#506784","borderwidth":0},"xaxis":{"automargin":true,"gridcolor":"#283442","linecolor":"#506784","ticks":"","title":{"standoff":15},"zerolinecolor":"#283442","zerolinewidth":2},"yaxis":{"automargin":true,"gridcolor":"#283442","linecolor":"#506784","ticks":"","title":{"standoff":15},"zerolinecolor":"#283442","zerolinewidth":2}}},"xaxis":{"anchor":"y","domain":[0.0,1.0],"matches":"x3","showticklabels":false,"rangeselector":{"font":{"color":"#E0E0E0"},"buttons":[{"count":1,"label":"1\uac1c\uc6d4","step":"month","stepmode":"backward"},{"count":3,"label":"3\uac1c\uc6d4","step":"month","stepmode":"backward"},{"count":6,"label":"6\uac1c\uc6d4","step":"month","stepmode":"backward"},{"label":"\uc804\uccb4","step":"all"}],"bgcolor":"#21262d","activecolor":"#388bfd"},"gridcolor":"#30363d","rangebreaks":[{"bounds":["sat","mon"]}]},"yaxis":{"anchor":"x","domain":[0.532,1.0],"title":{"text":"\uc885\uac00 ($)"},"gridcolor":"#30363d"},"xaxis2":{"anchor":"y2","domain":[0.0,1.0],"matches":"x3","showticklabels":false,"gridcolor":"#30363d","rangebreaks":[{"bounds":["sat","mon"]}]},"yaxis2":{"anchor":"x2","domain":[0.28400000000000003,0.48200000000000004],"title":{"text":"\uc8fc\ubb38 \uae08\uc561 ($)"},"gridcolor":"#30363d"},"xaxis3":{"anchor":"y3","domain":[0.0,1.0],"gridcolor":"#30363d","rangebreaks":[{"bounds":["sat","mon"]}]},"yaxis3":{"anchor":"x3","domain":[0.0,0.234],"title":{"text":"\uc218\uc775\ub960 (%)"},"gridcolor":"#30363d"},"annotations":[{"font":{"size":16},"showarrow":false,"text":"SOXL \uc885\uac00\uc640 \uc8fc\ubb38\u00b7\uccb4\uacb0","x":0.5,"xanchor":"center","xref":"paper","y":1.0,"yanchor":"bottom","yref":"paper"},{"font":{"size":16},"showarrow":false,"text":"\uc77c\ubcc4 \uc8fc\ubb38 \uae08\uc561 (\uc9c4\ud55c\uc0c9=\uccb4\uacb0)","x":0.5,"xanchor":"center","xref":"paper","y":0.48200000000000004,"yanchor":"bottom","yref":"paper"},{"font":{"size":16},"showarrow":false,"text":"\uc218\uc775\ub960 (\uc6d0\uae08 \ub300\ube44)","x":0.5,"xanchor":"center","xref":"paper","y":0.234,"yanchor":"bottom","yref":"paper"}],"shapes":[{"line":{"color":"#30363d","width":1},"type":"line","x0":0,"x1":1,"xref":"x3 domain","y0":0,"y1":0,"yref":"y3"}],"title":{"text":"\ub5a8\uc0ac\uc624\ud314 SOXL \uc2e4\uac70\ub798 \ud604\ud669 (2026-06-18 ~ 2026-07-08)\u003cbr\u003e\u003cspan style=\"font-size:13px;color:#AAAAAA\"\u003e\ud3c9\uac00\uae08\uc561 $25,657 (+2.63%)  |  \ubcf4\uc720 13\uc8fc \u00b7 \uc608\uc218\uae08 $23,384  |  MDD -1.9%  |  \uccb4\uacb0 \ub9e4\uc218 5\ud68c \u00b7 \ub9e4\ub3c4 4\ud68c  \u00b7  \uc6d0\uae08 $25,000 \uae30\uc900\u003c\u002fspan\u003e","x":0.5,"xanchor":"center","y":0.985,"yanchor":"top"},"legend":{"orientation":"h","y":1.065,"x":0.5,"xanchor":"center","bgcolor":"rgba(0,0,0,0)"},"margin":{"t":185,"b":40,"l":60,"r":30},"paper_bgcolor":"#0d1117","plot_bgcolor":"#0d1117","barmode":"relative","hovermode":"closest","height":920},                        {"displayModeBar": true, "scrollZoom": true, "responsive": true}                    )                };                            </script>        </div>
 </body>
 </html>
